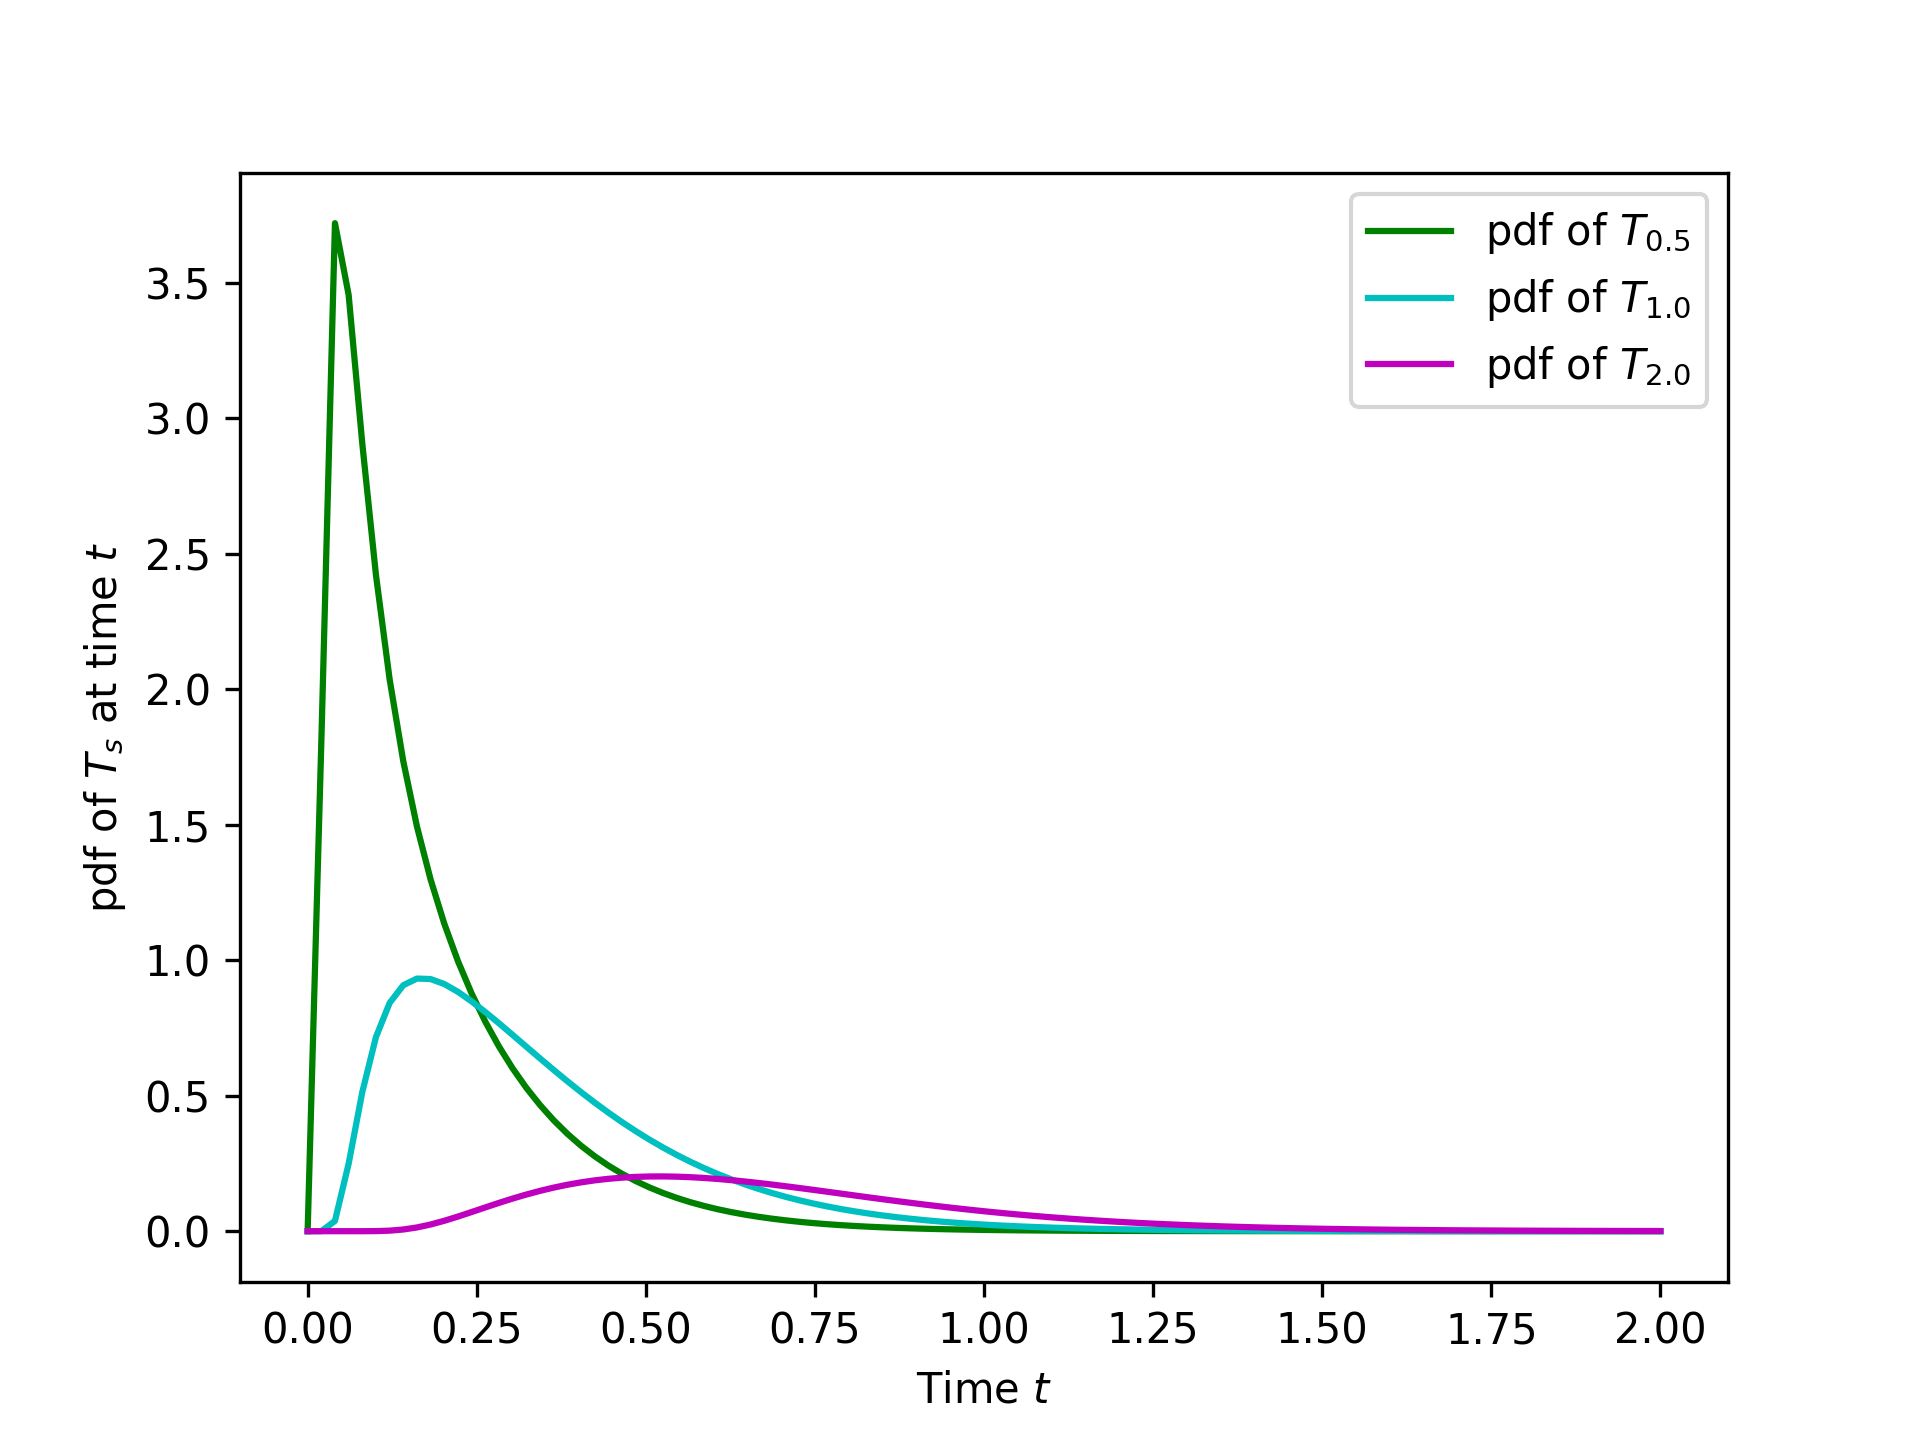
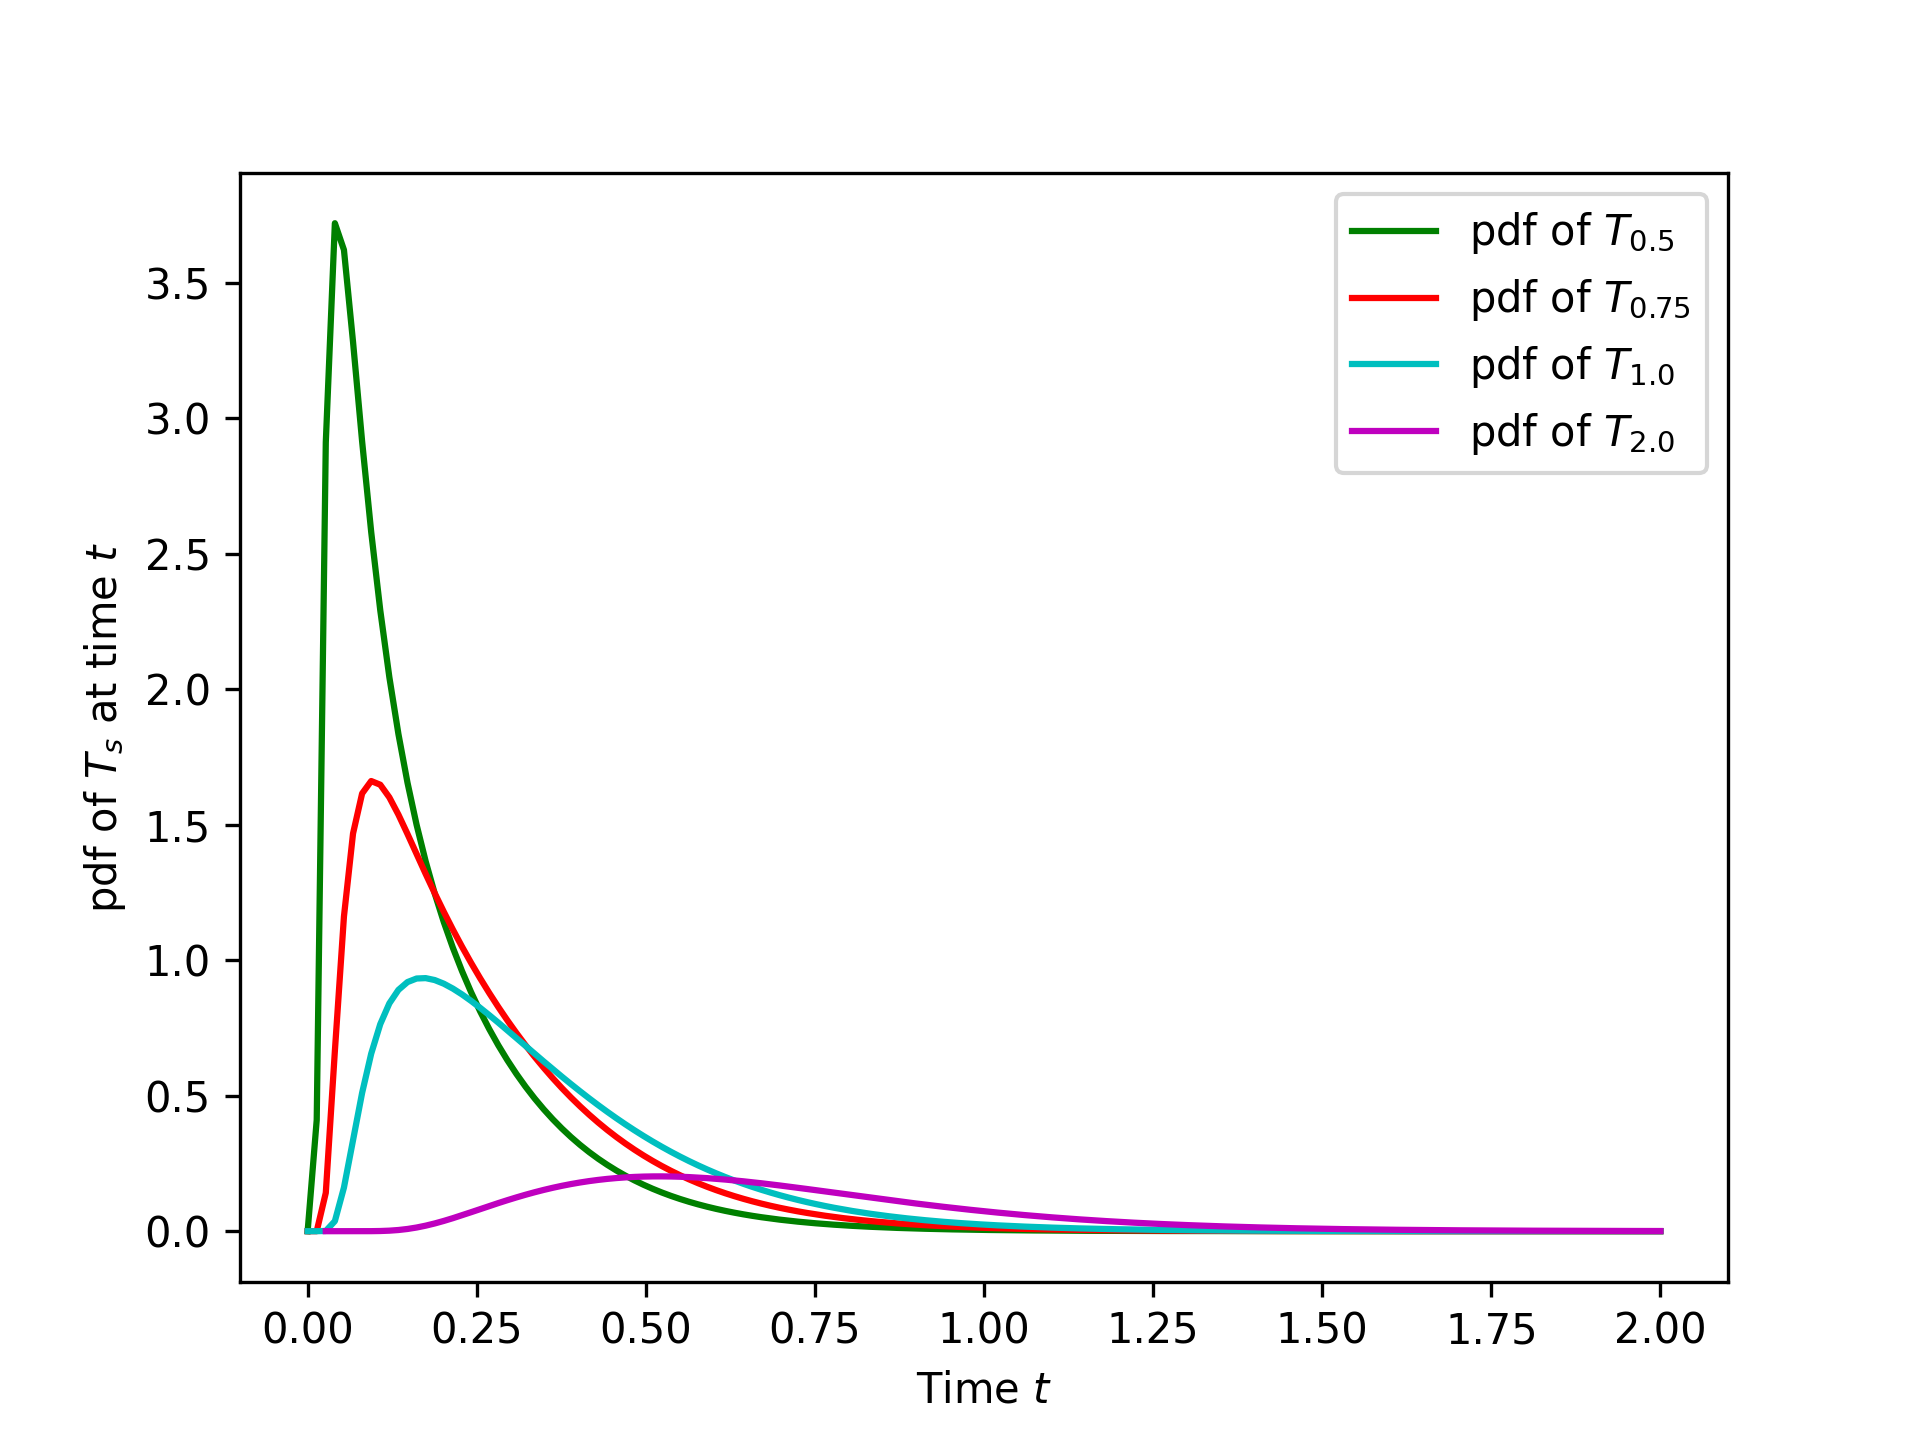
End of 8/11/20

diff --git a/Krein_Corr_Class.py b/Krein_Corr_Class.py
@@ -6,12 +6,12 @@ import time
 import Krein_Brownian_Killed_Class as BMKill
 
 class Krein_Corr:
-    """This class simulates the Krein correspondence for a Krein string given by a sum of 
-    weighted Dirac measures, which may be used to approximate any given Krein string.
-    To initialise the class, we require two numpy arrays, y and m, where y is a partition 
-    of an interval [0, R] (with y[0] = 0 and y[-1] = R) and m corresponds to the Dirac point 
-    measure on this partition. For simplicity, we assume that (in the notation of the thesis)
-    that L = R < infty so the corresponding gap diffusion is killed upon hitting R.
+    """This class simulates the Krein correspondence for a Krein string given by a sum of \
+        weighted Dirac measures, which may be used to approximate any given Krein string. \
+        To initialise the class, we require two numpy arrays, y and m, where y is a partition \
+        of an interval [0, R] (with y[0] = 0 and y[-1] = R) and m corresponds to the Dirac point \
+        measure on this partition. For simplicity, we assume that (in the notation of the thesis) \
+        that L = R < infty so the corresponding gap diffusion is killed upon hitting R.
     """
 
     def __init__(self, y, m):
@@ -22,10 +22,10 @@ class Krein_Corr:
         
     def Extension_Func(self, xi):
         """
-        We use the finite difference approximation of the BVP problem associated with the
-        extension function. This BVP is given by,
-        f''(y) = xi f(y)m(diff y), f(0) = 1, f(R) = 0,
-        for fixed xi in [0, infty). 
+        We use the finite difference approximation of the BVP problem associated with the \
+            extension function. This BVP is given by, \
+            f''(y) = xi f(y)m(diff y), f(0) = 1, f(R) = 0, \
+            for fixed xi in [0, infty). 
         """
         y, m = self.y, self.m
         N = y.size
@@ -49,11 +49,11 @@ class Krein_Corr:
         
     def Laplace_Exponent(self, xi, method = "CtdFrac"):
         """
-        In this function we calculate the Laplace exponent at xi associated with the Krein string m via two 
-        different methods: first by calculating the derivative at zero of extension function associated 
-        with m, the second by directly calculating the continued fraction representation of 
-        the complete Bernstein function. We set the default method to be the continued fraction method
-        as the extension method is much slower due to the matrix computations imvolved.  
+        In this function we calculate the Laplace exponent at xi associated with the Krein string m via two \
+            different methods: first by calculating the derivative at zero of extension function associated \
+            with m, the second by directly calculating the continued fraction representation of the complete \
+            Bernstein function. We set the default method to be the continued fraction method as the \
+            extension method is much slower due to the matrix computations imvolved.  
         """
         if method == "FinDiff":
             phi_approx = self.Extension_Func(xi)
@@ -85,8 +85,8 @@ class Krein_Corr:
         
     def Subordinator_pdf(self, t, T, N): 
         """
-        In this function, we employ mpmath library to invert the Laplace transform of exp(-t*psi)
-        where psi is the Laplace exponent numerically, giving the pdf of T_t.        
+        In this function, we employ mpmath library to invert the Laplace transform of exp(-t*psi)\
+            where psi is the Laplace exponent numerically, giving the pdf of T_t.        
         """
         def Laplace_Trans_of_Sub(eta):
             Log_Lap_of_Sub = self.Laplace_Exponent( eta , method = "CtdFrac" )
@@ -108,7 +108,7 @@ def main():
     N = int(1E2)
     R = 1.0
     y = np.linspace(0.0, R, N)
-    m = (1.0/N)*np.ones(N)
+    m = (R/N)*np.ones(N)
     
     BM_Example = Krein_Corr(y, m)
     BM_Actual = BMKill.Krein_Brownian_Killed(R)
@@ -150,12 +150,15 @@ def main():
     
     
     T = 2.0
-    N_t = 100
+    N_t = 150
     times = np.linspace(0.0, T, N_t)
     
     tic = time.perf_counter()      
     sub_05 = BM_Example.Subordinator_pdf(0.5, T, N_t)
     print("Laplace transform to find pdf of T_{0.5} complete.")
+
+    sub_075 = BM_Example.Subordinator_pdf(0.75, T, N_t)
+    print("Laplace transform to find pdf of T_{0.75} complete.")
 
     sub_1 = BM_Example.Subordinator_pdf(1.0, T, N_t)
     print("Laplace transform to find pdf of T_{1.0} complete.")
@@ -167,6 +170,7 @@ def main():
     print(f"Laplace transforms in {toc - tic:0.4f} seconds")
 
     plt.plot(times, sub_05, "g-", label=r"pdf of $T_{0.5}$")
+    plt.plot(times, sub_075, "r-", label=r"pdf of $T_{0.75}$")
     plt.plot(times, sub_1, "c-", label=r"pdf of $T_{1.0}$")
     plt.plot(times, sub_2, "m-", label=r"pdf of $T_{2.0}$")
     plt.xlabel(r"Time $t$")

diff --git a/Bessel_and_Trace_Process_v2.py b/Bessel_and_Trace_Process_v2.py
@@ -14,8 +14,8 @@ class Bessel:
              #Constant that appears in corresponding speed measure of the rescaled Bessel process
 
     def Squared_Bessel_Process(self):
-        """In order to simulate a Bessel process, we use the algorithm 
-        found in 'Makarov, & Glew. Exact simulation of Bessel diffusions'. """
+        """In order to simulate a Bessel process, we use the algorithm \
+            found in 'Makarov, & Glew. Exact simulation of Bessel diffusions'. """
         Q = np.zeros(self.Num) # Memory for Squared Bessel process
         error = 1E-6 
     
@@ -34,9 +34,9 @@ class Bessel:
         return (self.c_alpha)*(self.Bessel_Process() )**(self.alpha)
 
     def Local_Time(self, delta, Y):
-        """This function takes a time T, a time increment dt, a rescaled Bessel Process Y 
-        with dimension dim and a small value delta and returns the approximate local time
-        of the sample path."""
+        """This function takes a time T, a time increment dt, a rescaled Bessel \
+            Process Y with dimension dim and a small value delta and returns the \
+            approximate local time of the sample path."""
         alpha = self.alpha
         dim = self.dim
         c_alpha = self.c_alpha
@@ -56,8 +56,8 @@ class Bessel:
         return Lt
 
 def Brownian_Motion(T, dt):
-    """This function takes a time T and a time increment dt and returns an array of 
-    the values of the X_t process at these time increments."""
+    """This function takes a time T and a time increment dt and returns an \
+        array of the values of the X_t process at these time increments."""
         
     N = round(T/dt) # Number of time-steps
     X = np.random.standard_normal(size = N)
@@ -91,5 +91,5 @@ def main(T, dt, dim, delta):
     return 0
 
 
-main(T = 10.0**2, dt = 1E-5, dim = 1.2, delta = 1E-3)
+main(T = 10.0**3, dt = 1E-5, dim = 1.2, delta = 1E-4)
 main(T = 10.0**3, dt = 1E-4, dim = 0.8, delta = 1E-4)

diff --git a/Krein_Bessel_Class.py b/Krein_Bessel_Class.py
@@ -4,8 +4,9 @@ from scipy.special import gamma, kv
 
 class Krein_Bessel:
     """
-    This class contains the constants and functions that appear in the Krein correspondence for the special case where
-    \lambda \mapsto \lambda^(\alpha/2) for some \alpha in (0, 2).
+    This class contains the constants and functions that appear in the Krein \
+        correspondence for the special case where \lambda \mapsto \lambda^(\alpha/2) \
+        for some \alpha in (0, 2).
     """
     def __init__(self, alpha):
         self.alpha = alpha

diff --git a/Extension_PDE_Solver.py b/Extension_PDE_Solver.py
@@ -55,7 +55,8 @@ plt.close()
 #Simulated u(x, 0) vs. Actual u(x, 0)
 x_bound = np.linspace(x_0, x_1, N_x )
 u_bound_val = np.array( [u(x, 0.0) for x in x_bound ] )
-act_val = (1.0/test.Laplace_Exponent(1.0**2.0))*np.sin( x_bound ) + (3.0/test.Laplace_Exponent(3.0**2.0))*np.sin( 3.0*x_bound ) \
+act_val = (1.0/test.Laplace_Exponent(1.0**2.0))*np.sin( x_bound ) \
+    + (3.0/test.Laplace_Exponent(3.0**2.0))*np.sin( 3.0*x_bound ) \
     + (10.0/test.Laplace_Exponent(10.0**2.0))*np.sin( 10.0*x_bound )
 
 #Plot of u(x, 0)

diff --git a/Krein_Brownian_Killed_Class.py b/Krein_Brownian_Killed_Class.py
@@ -3,8 +3,9 @@ import matplotlib.pyplot as plt
 
 class Krein_Brownian_Killed:
     """
-    This class contains the formulas for the extension function and Laplace exponent of a reflected Brownian motion in [0, R]
-    killed upon hitting R.
+    This class contains the formulas for the extension function and \
+        Laplace exponent of a reflected Brownian motion in [0, R] \
+        killed upon hitting R.
     """
     def __init__(self, R, error = 1E-10):
         self.R = R
